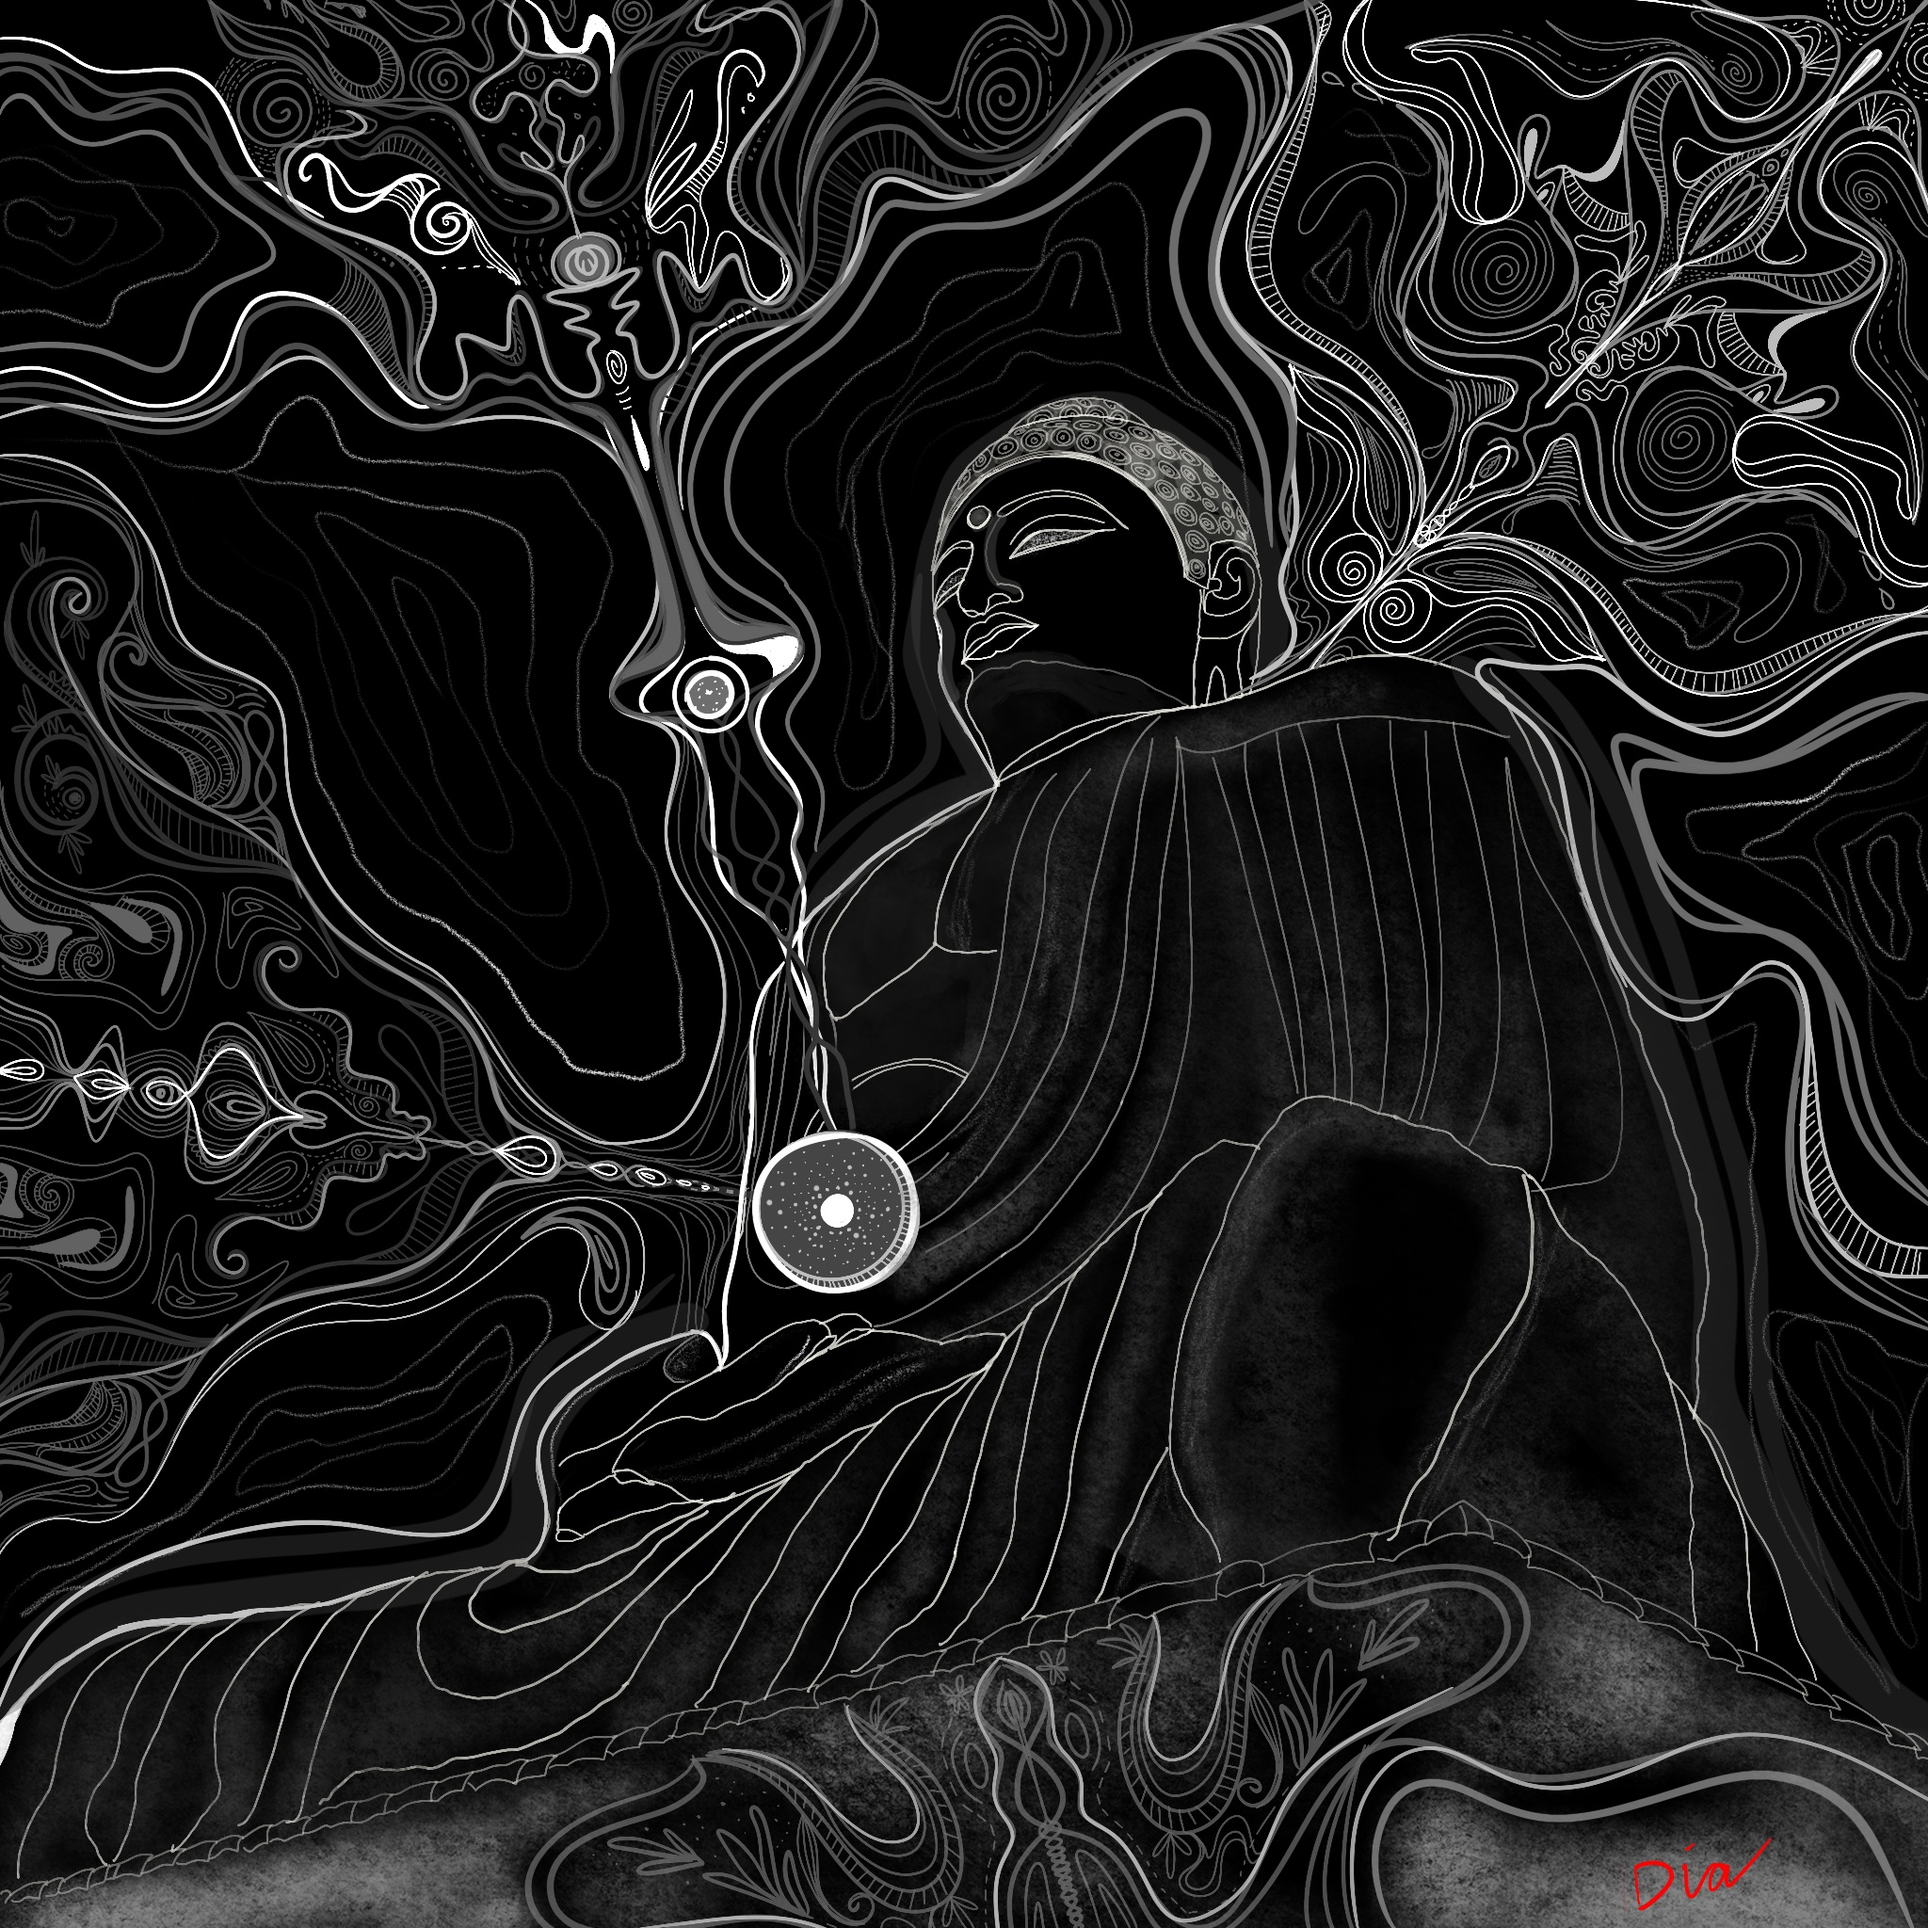
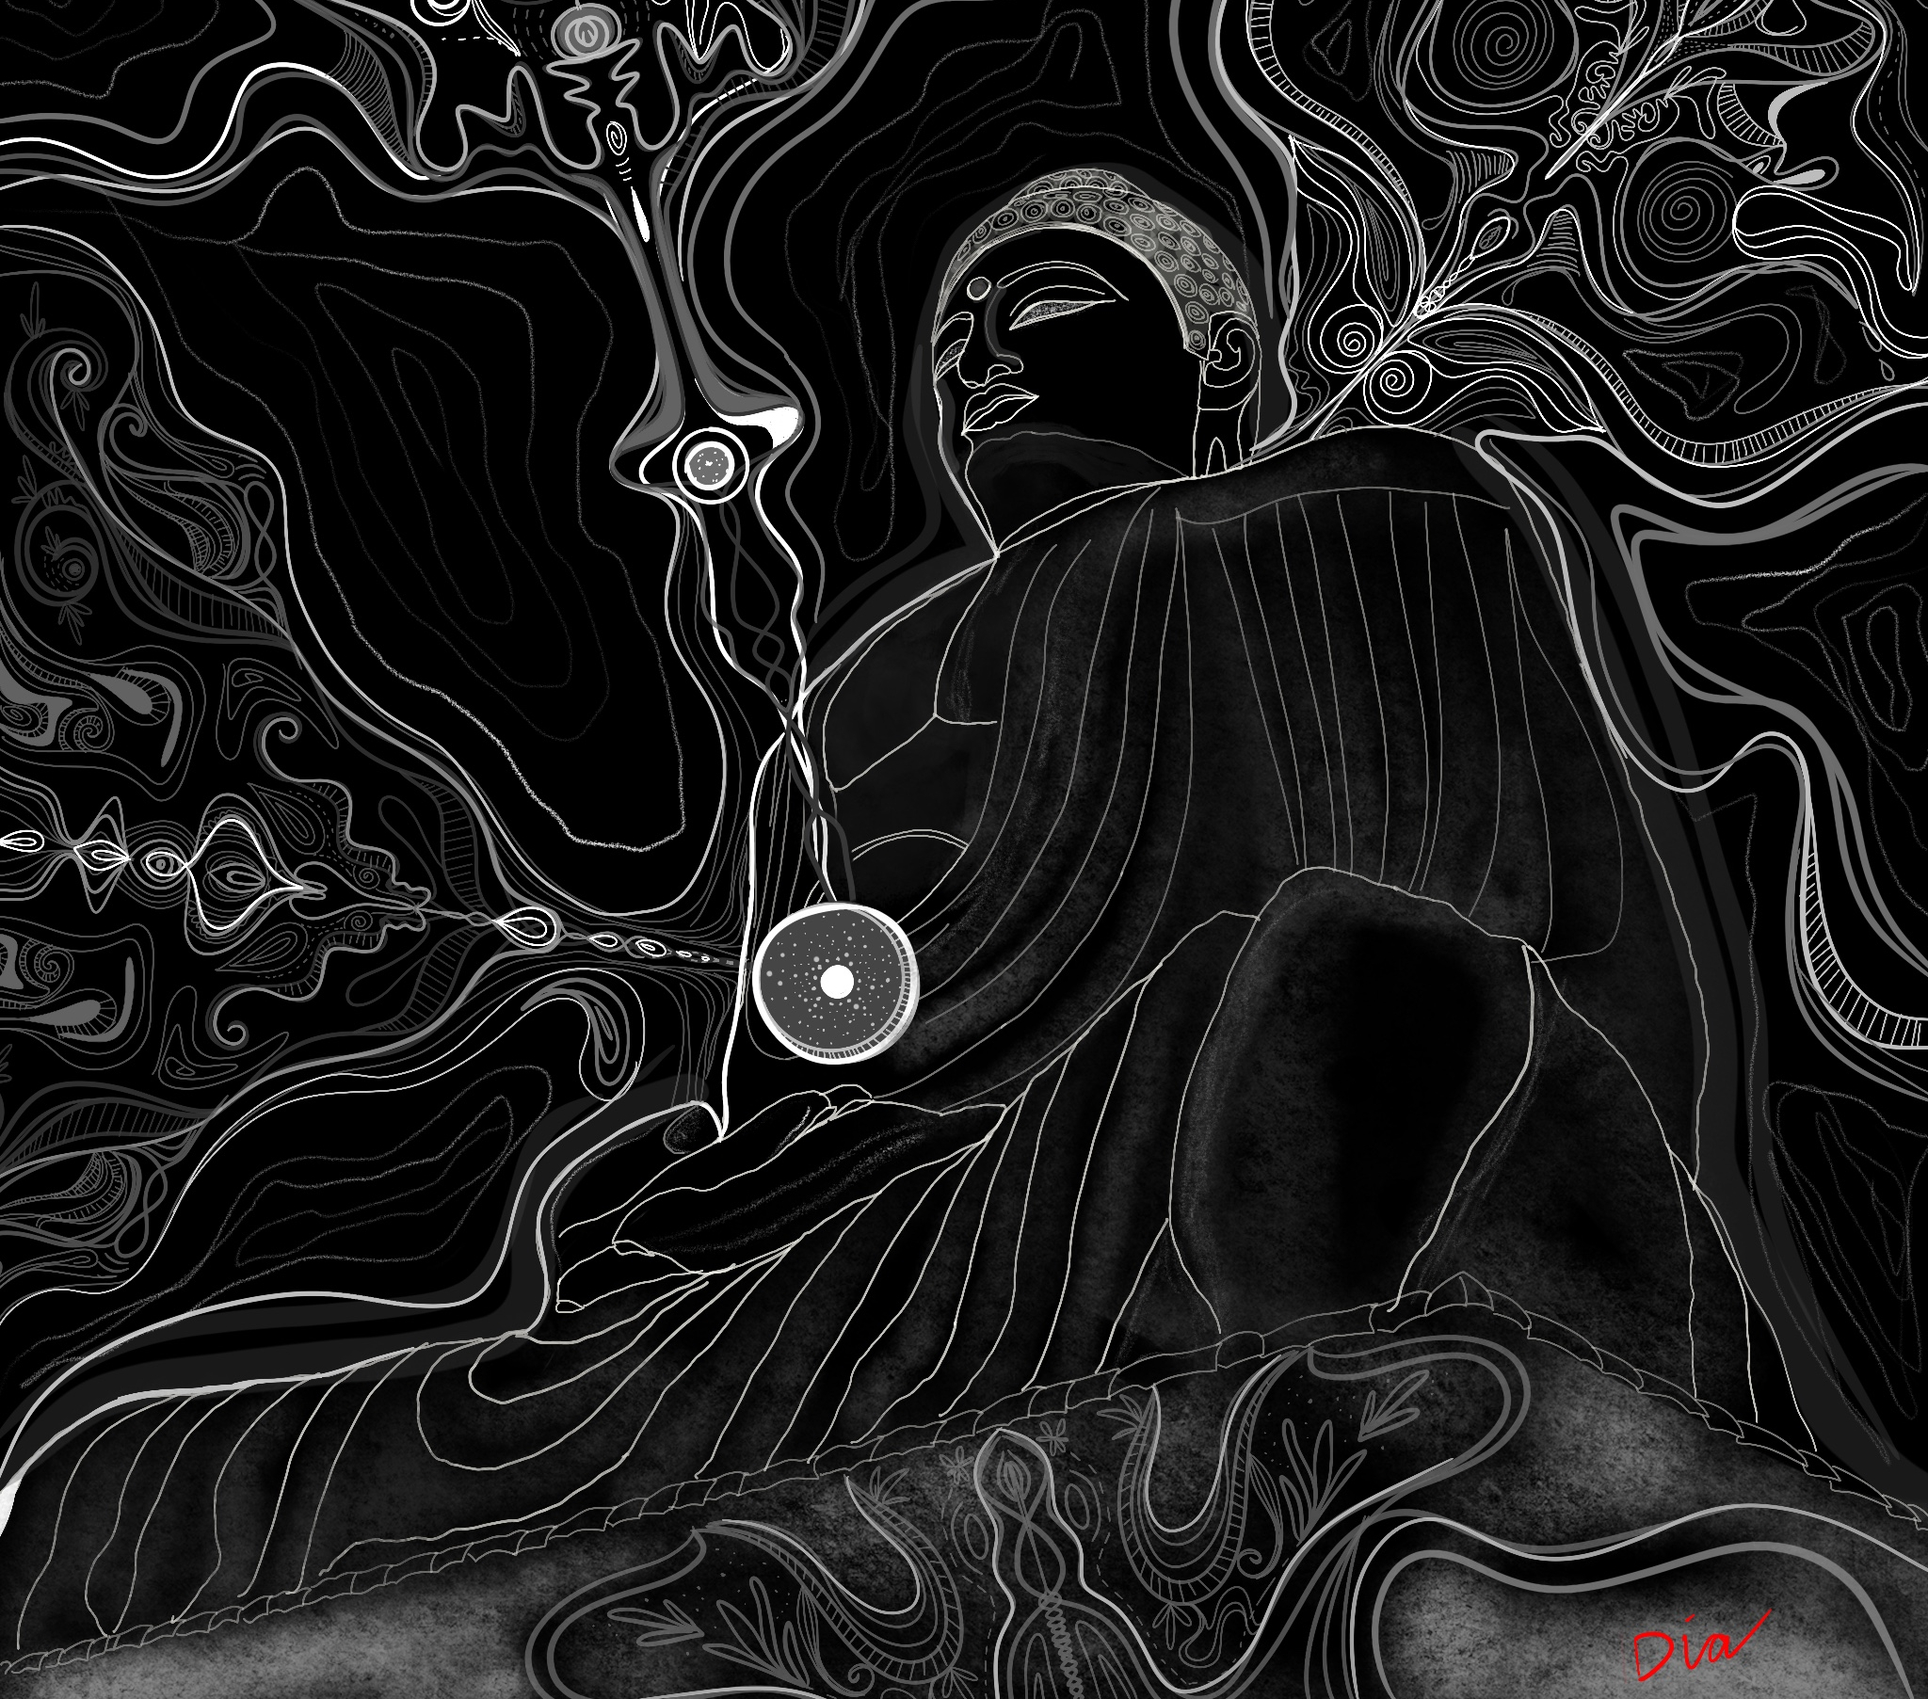
cropped header bg, reduced fade-in animation time, changed header h1 border color and weight

diff --git a/docs/css/grayscale.css b/docs/css/grayscale.css
@@ -7,19 +7,19 @@ body {
   height: 100%;
   color: white;
   background-color: black;
-  animation: initFade ease-in 10s;
+  animation: initFade ease-in 5s;
   animation-iteration-count: 1;
   animation-fill-mode: forwards;
-  -webkit-animation: initFade ease-in 10s;
+  -webkit-animation: initFade ease-in 5s;
   -webkit-animation-iteration-count: 1;
   -webkit-animation-fill-mode: forwards;
-  -moz-animation: initFade ease-in 10s;
+  -moz-animation: initFade ease-in 5s;
   -moz-animation-iteration-count: 1;
   -moz-animation-fill-mode: forwards;
-  -o-animation: initFade ease-in 10s;
+  -o-animation: initFade ease-in 5s;
   -o-animation-iteration-count: 1;
   -o-animation-fill-mode: forwards;
-  -ms-animation: initFade ease-in 10s;
+  -ms-animation: initFade ease-in 5s;
   -ms-animation-iteration-count: 1;
   -ms-animation-fill-mode: forwards;
 }
@@ -299,7 +299,7 @@ header {
   color: white;
   background: url("../img/section7-bg.jpg") no-repeat top center scroll;
   background-size: cover;
-  background-position: center;
+  background-position-y: top;
 }
 
 #intro-body {
@@ -321,7 +321,7 @@ header p {
 }
 
 #intro-body h1 {
-  text-shadow: -1px 0 black, 0 1px black, 1px 0 black, 0 -1px black;
+  text-shadow: -0.5px 0 #920000, 0 0.5px #920000, 0.5px 0 #920000, 0 -0.5px #920000;
   color: #DC4242;
 }
 

diff --git a/themes/hugograyscale/static/css/grayscale.css b/themes/hugograyscale/static/css/grayscale.css
@@ -7,19 +7,19 @@ body {
   height: 100%;
   color: white;
   background-color: black;
-  animation: initFade ease-in 10s;
+  animation: initFade ease-in 5s;
   animation-iteration-count: 1;
   animation-fill-mode: forwards;
-  -webkit-animation: initFade ease-in 10s;
+  -webkit-animation: initFade ease-in 5s;
   -webkit-animation-iteration-count: 1;
   -webkit-animation-fill-mode: forwards;
-  -moz-animation: initFade ease-in 10s;
+  -moz-animation: initFade ease-in 5s;
   -moz-animation-iteration-count: 1;
   -moz-animation-fill-mode: forwards;
-  -o-animation: initFade ease-in 10s;
+  -o-animation: initFade ease-in 5s;
   -o-animation-iteration-count: 1;
   -o-animation-fill-mode: forwards;
-  -ms-animation: initFade ease-in 10s;
+  -ms-animation: initFade ease-in 5s;
   -ms-animation-iteration-count: 1;
   -ms-animation-fill-mode: forwards;
 }
@@ -299,7 +299,7 @@ header {
   color: white;
   background: url("../img/section7-bg.jpg") no-repeat top center scroll;
   background-size: cover;
-  background-position: center;
+  background-position-y: top;
 }
 
 #intro-body {
@@ -321,7 +321,7 @@ header p {
 }
 
 #intro-body h1 {
-  text-shadow: -1px 0 black, 0 1px black, 1px 0 black, 0 -1px black;
+  text-shadow: -0.5px 0 #920000, 0 0.5px #920000, 0.5px 0 #920000, 0 -0.5px #920000;
   color: #DC4242;
 }
 
